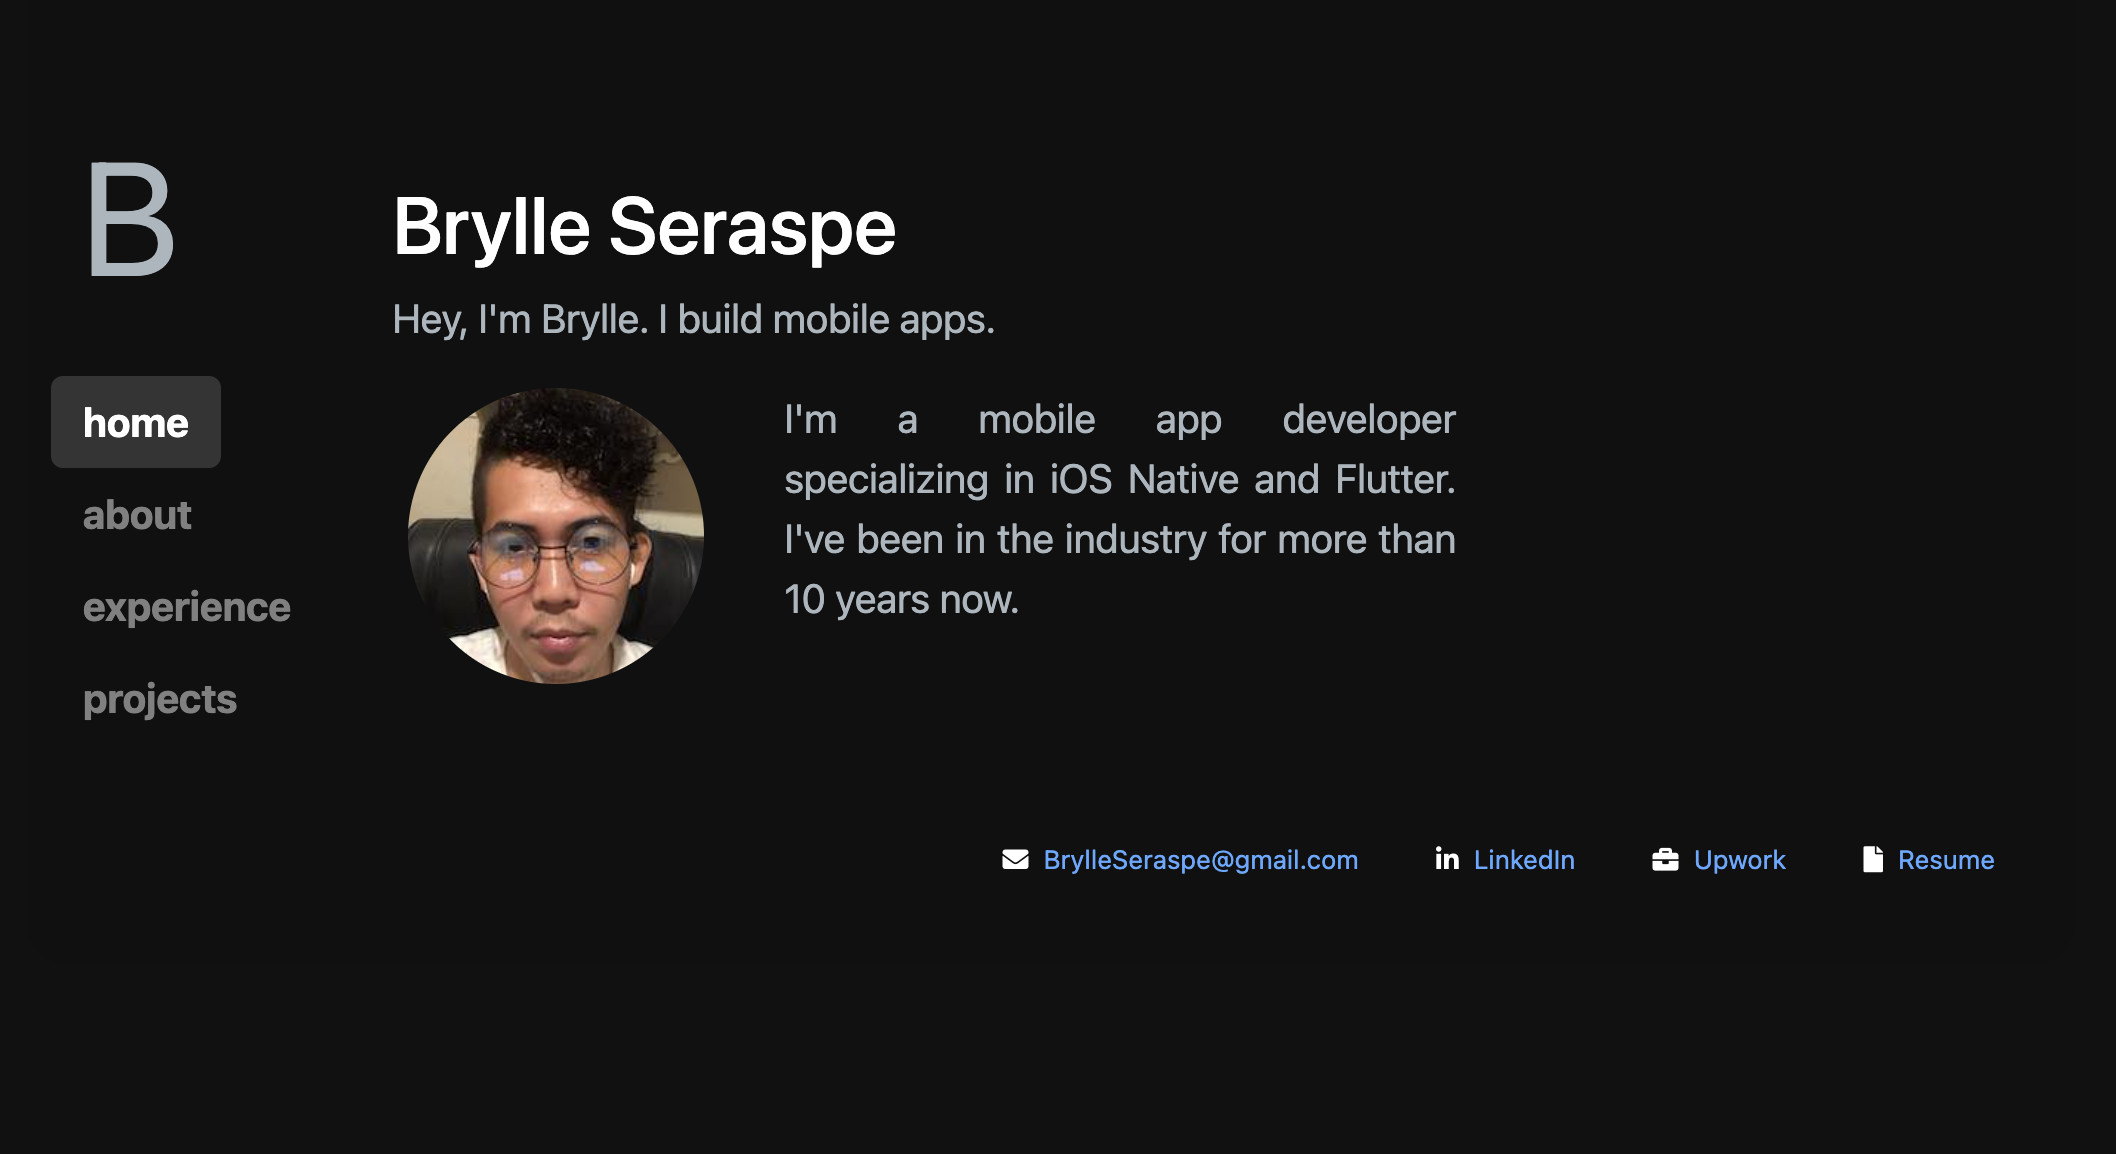
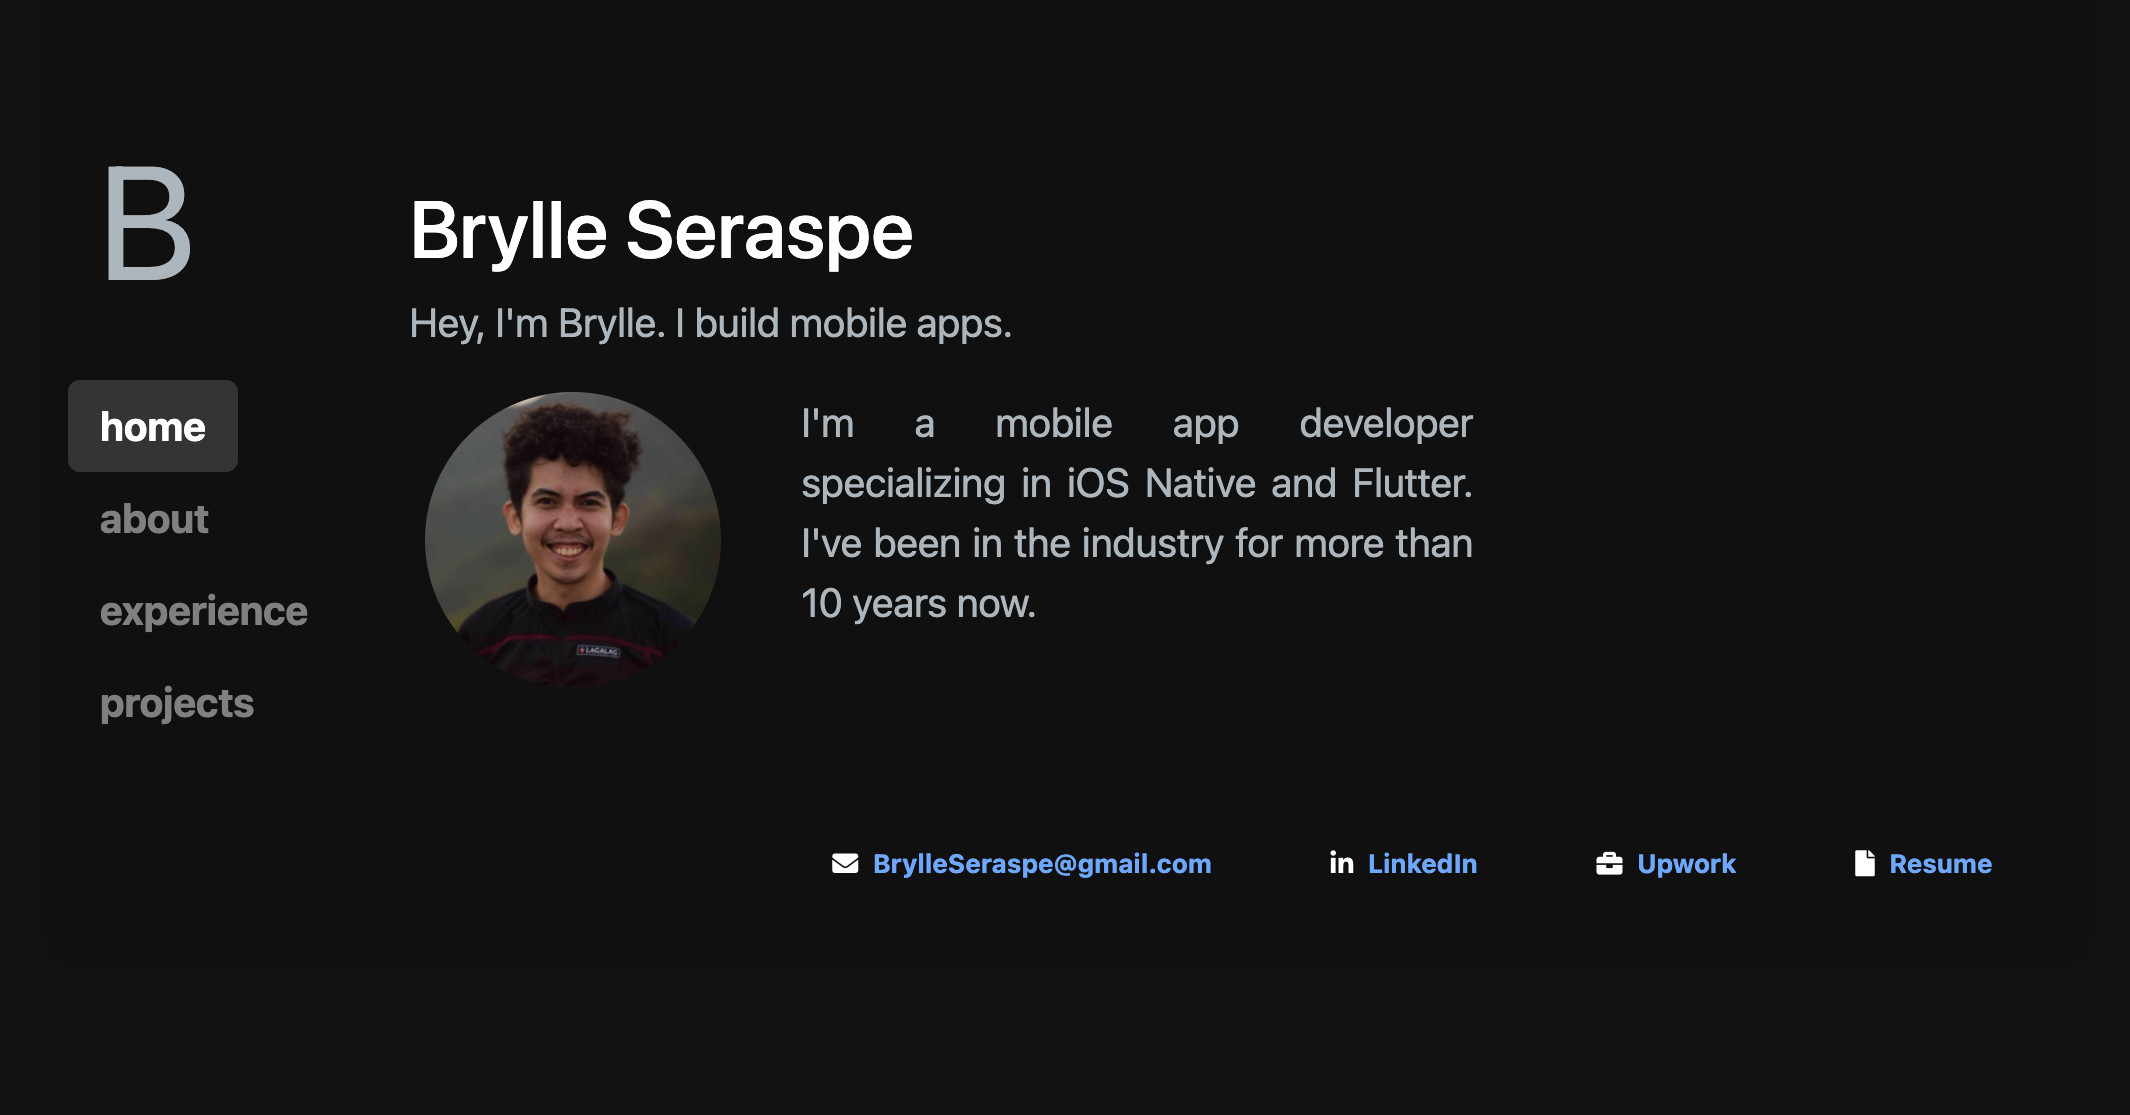
update images

diff --git a/views/home.html b/views/home.html
@@ -10,7 +10,7 @@
     </div>
 
     <div class="col-md-4 align-center" style="padding: 20px;">
-      <img src="images/bdst-200p.jpg" class="img-fluid rounded-circle" alt="..." />
+      <img src="images/bdst-img-1.jpg" class="img-fluid rounded-circle" alt="..." />
     </div>
 
     <div class="col-md-8" style="padding: 20px;">
